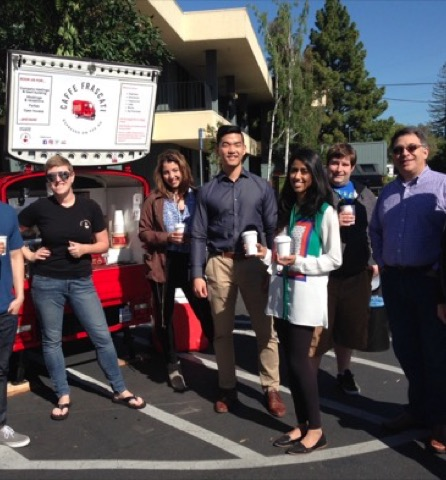
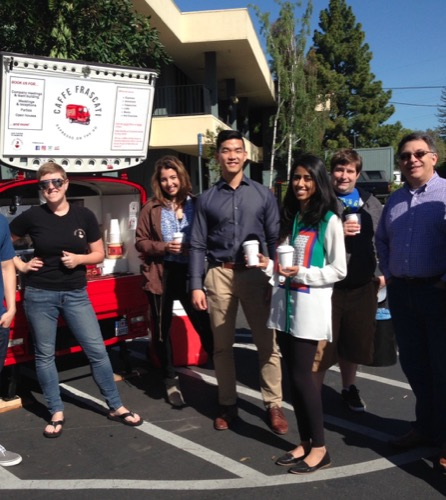
Add new cart photos

diff --git a/mobile/index.html b/mobile/index.html
@@ -19,6 +19,8 @@ images:
     image: slideshow/cart08.JPG
   -
     image: slideshow/cart09.jpg
+  -
+    image: slideshow/cart10.JPG
 description: Caffe Frascati has what we believe to be the only Piaggio Ape in the USA, and we will be thrilled to bring it to your next event and make your guests the best espresso drinks they’ve ever tasted! Contact us and have Caffe Frascati serve you at your next catering event.
 ---
 <h1>The Best Cappuccino on 3 Wheels!</h1>
